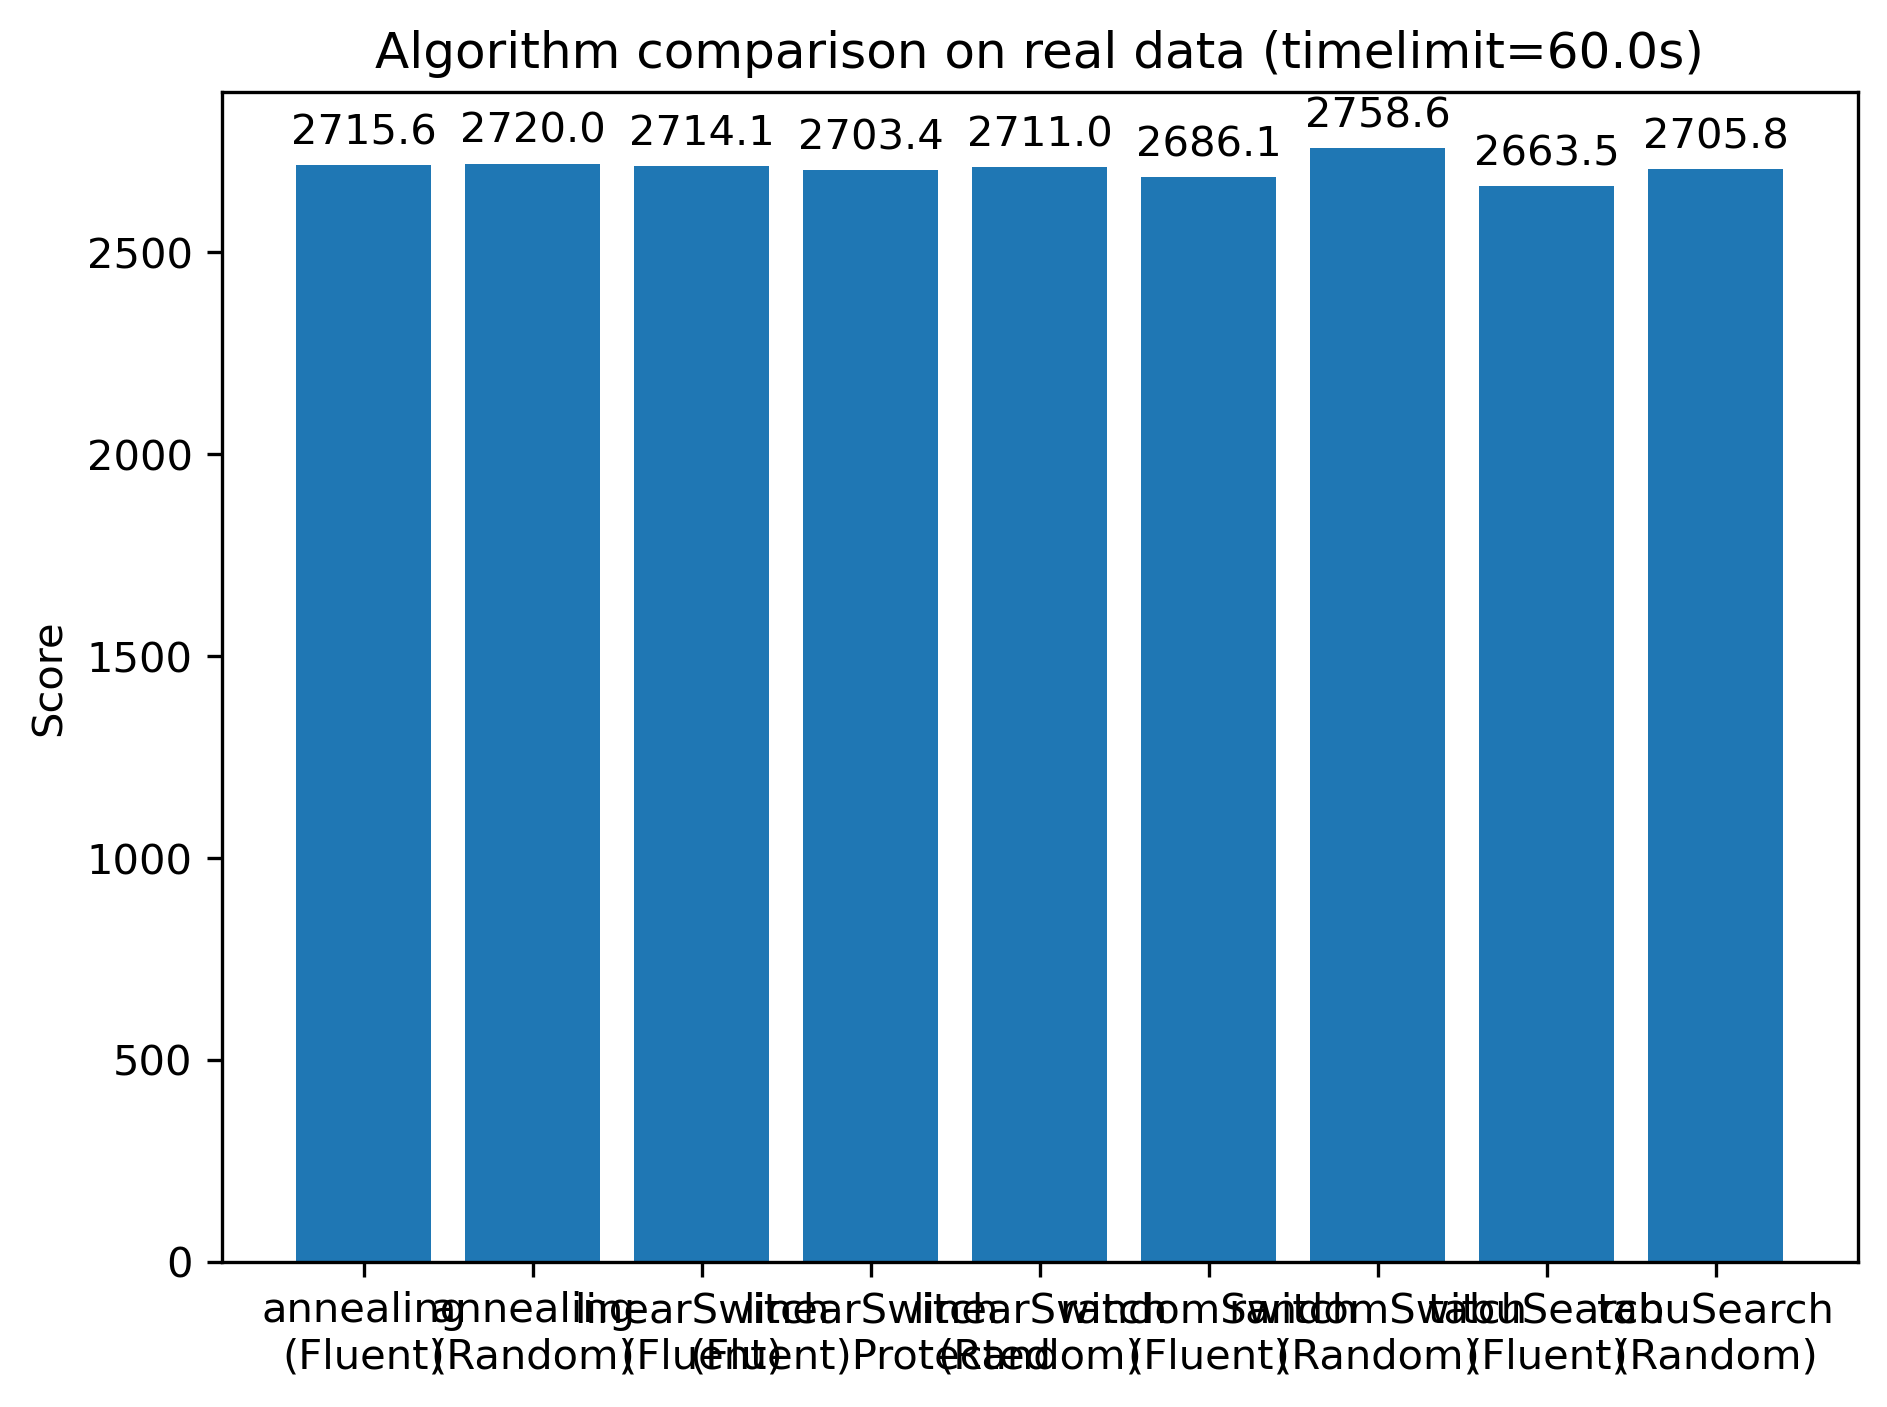
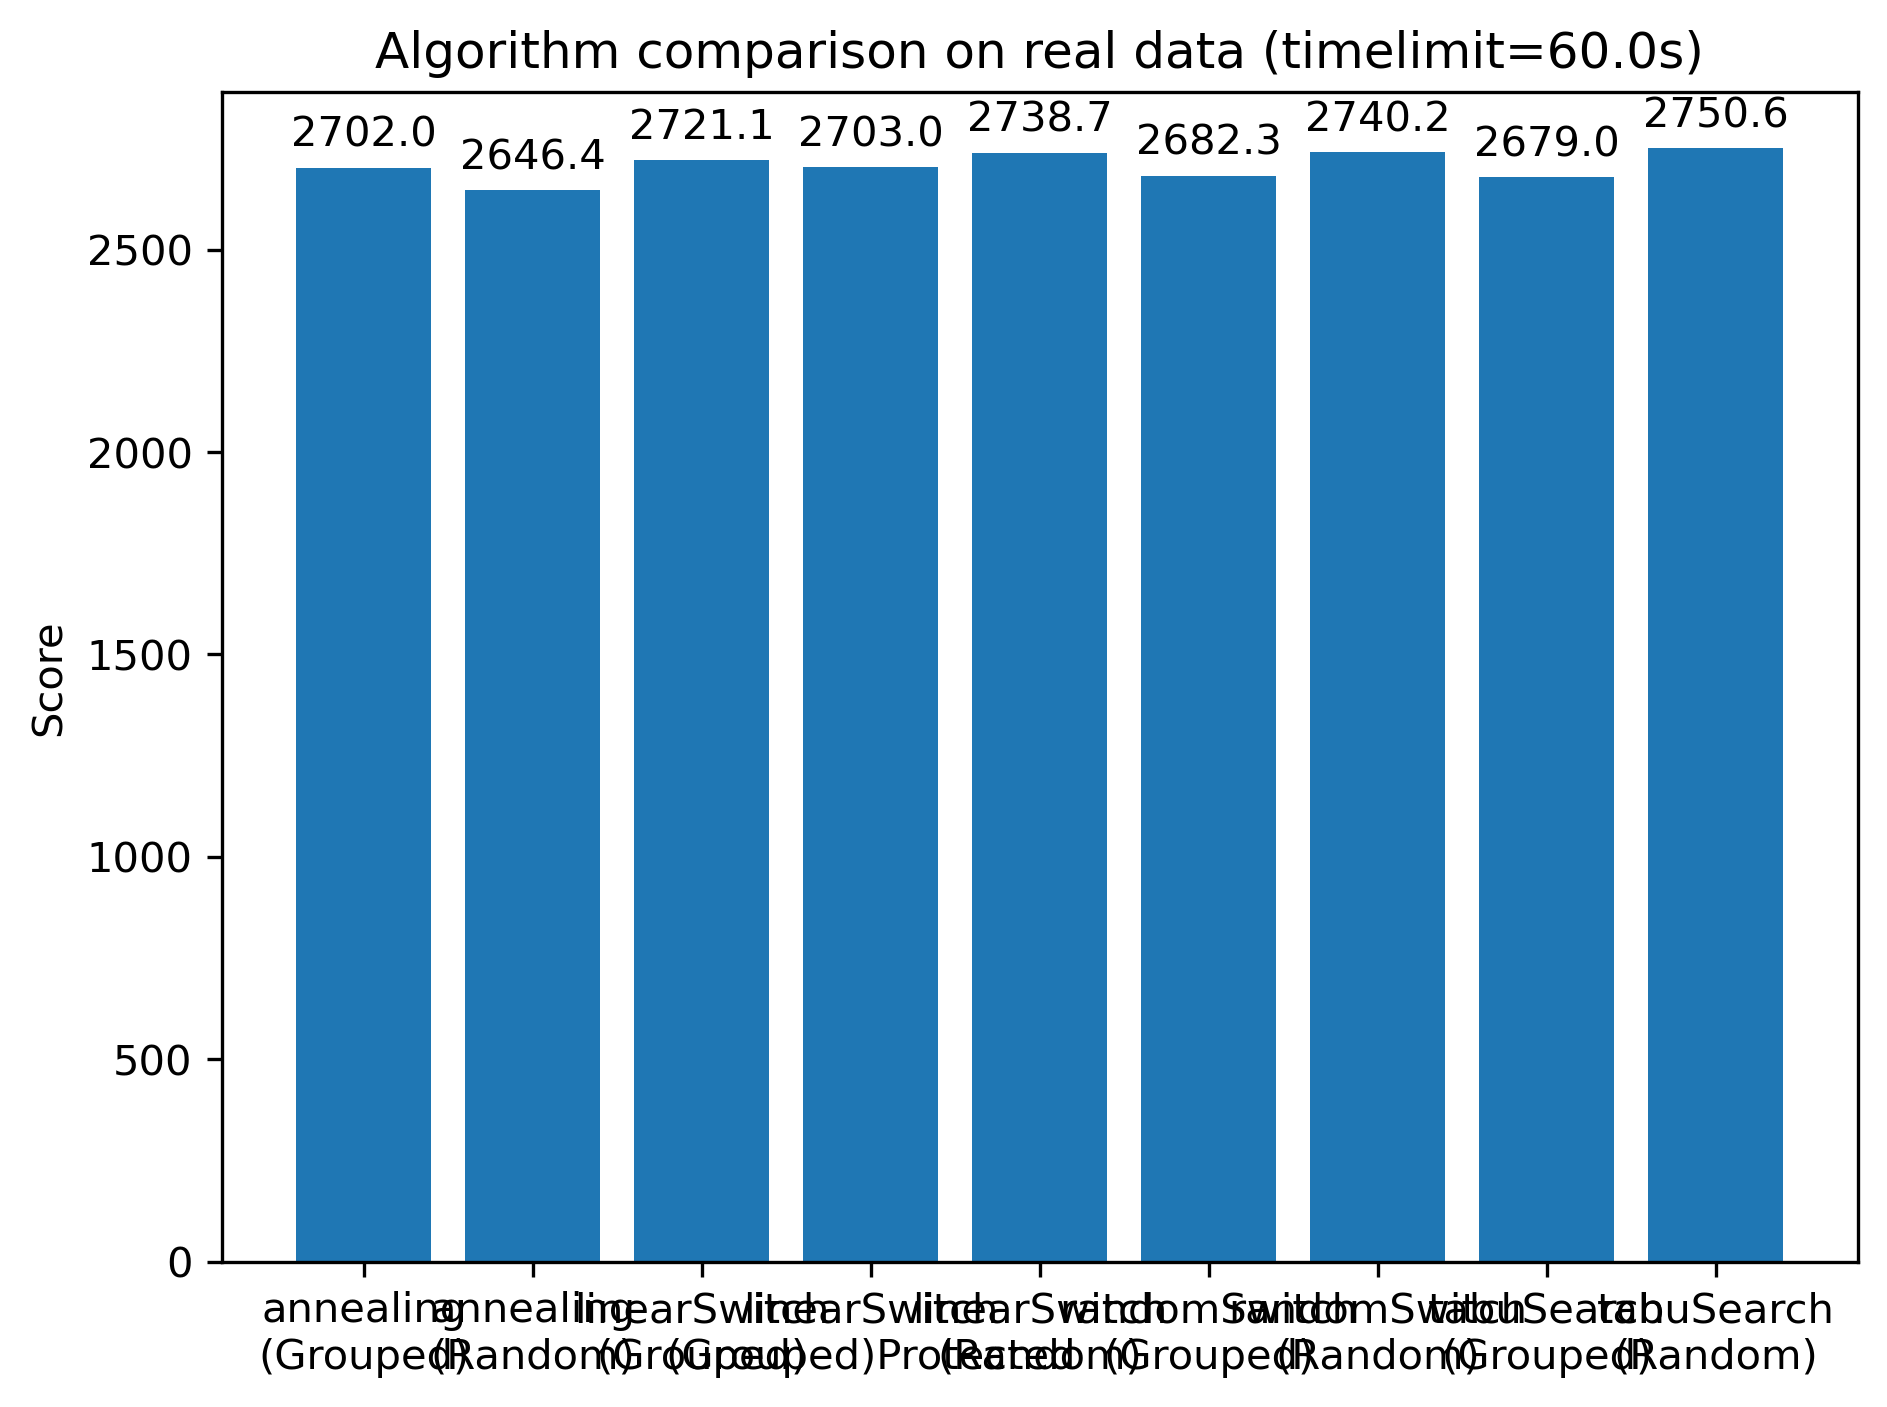
some updates

diff --git a/compareAlgos.py b/compareAlgos.py
@@ -49,9 +49,9 @@ ALGORITHMS = {
 }
 
 cohesion_scores = [0, 10, 20, 30, 40, 50, 60, 70, 80, 90, 100]
-iterations = 10
-people_counts = [300] #8, 30, 100, 
-timelimit = 600
+iterations = 100
+people_counts = [8, 30, 100, 300]
+timelimit = 30
 
 
 def print_results(results, time_results, timeline_results, cohesion_scores, people_counts, quicksave=False, algo_filter=None, output_dir=None):

diff --git a/Algorithms/Composite/TabuSearchFromGrouped.py b/Algorithms/Composite/TabuSearchFromGrouped.py
@@ -2,7 +2,6 @@ import time
 
 from Algorithms.Build.FluentGroupsFill import fluentGroupsFill
 from Algorithms.Optimizing.TabuSearch import tabuSearch
-FromGrouped
 
 def tabuSearchFromGrouped(input, emptyArrangement, max_seconds=None, score_tracker=None):
     arrangement, _ = fluentGroupsFill(input, emptyArrangement)

diff --git a/Algorithms/Composite/AnealingFromGrouped.py b/Algorithms/Composite/AnealingFromGrouped.py
@@ -2,7 +2,6 @@ import time
 
 from Algorithms.Build.FluentGroupsFill import fluentGroupsFill
 from Algorithms.Optimizing.Anealing import annealing
-FromGrouped
 
 def annealingFromGrouped(input, emptyArrangement, max_seconds=None, score_tracker=None):
     arrangement, _ = fluentGroupsFill(input, emptyArrangement)
